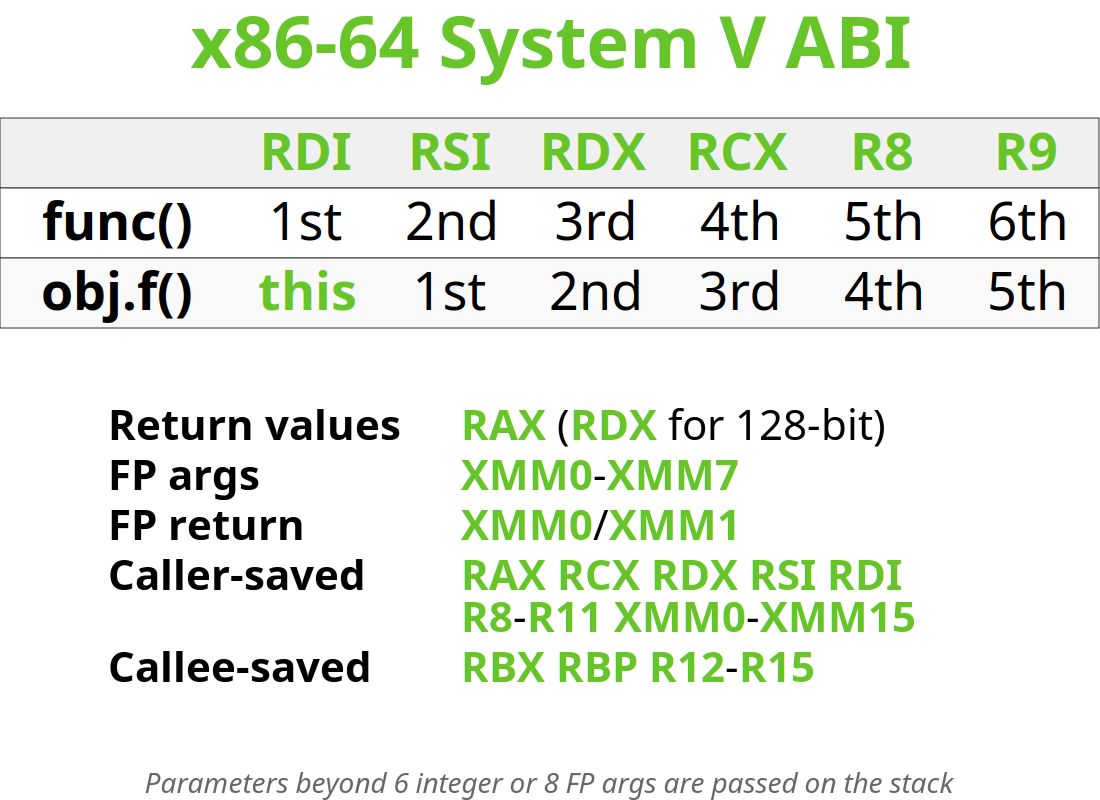
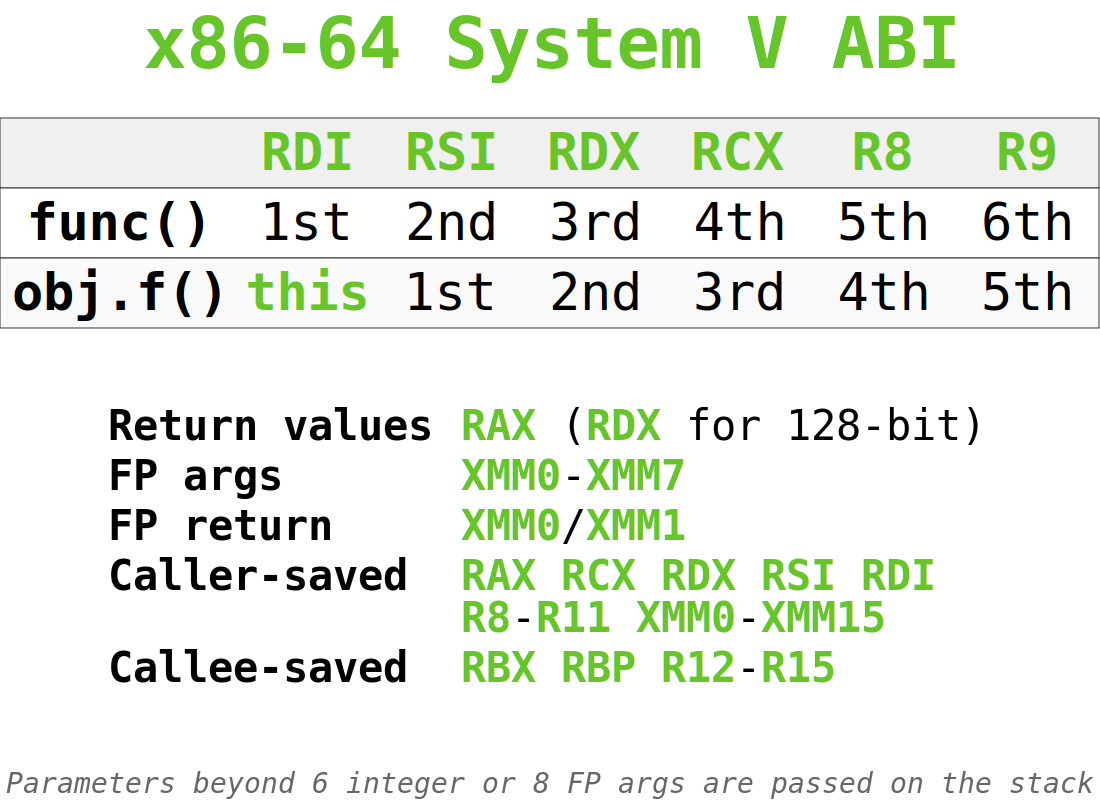
Fix font rendering to use proper monospace font in SVG output
- Add programmatic font family name detection to PILTextMeasurer
- Extract SVG-compatible font family name from PIL font objects using font.getname()[0]
- Add svg_font_family property to LayoutEngine with caching for performance
- Update all three mug generators to use proper font family name in SVG output
- Replace invalid 'font-family="DejaVuSansMono.ttf"' with correct 'font-family="DejaVu Sans Mono"'

Previously SVG was falling back to proportional fonts because font filenames are not
valid SVG font-family values. Now all mugs render with true monospace font matching
the PIL text measurements, ensuring consistent character spacing and professional appearance.

🤖 Generated with [Claude Code](https://claude.ai/code)

diff --git a/mugs/make_arm64_mug.py b/mugs/make_arm64_mug.py
@@ -8,7 +8,6 @@ from mug_common import (
     DEFAULT_DPI,
     DEFAULT_HEIGHT,
     DEFAULT_WIDTH,
-    FONT_NAME,
     FOOTER_OPACITY,
     HEADER_BG,
     ROW_LABEL_FUNCTION,
@@ -62,12 +61,15 @@ def create_abi_svg(
     engine = LayoutEngine(width, height)
     positions = engine.layout_mug(layout)
 
+    # Get proper SVG font family name
+    svg_font_family = engine.svg_font_family
+
     # Generate SVG
     svg = f"""<svg width="{width}" height="{height}" xmlns="http://www.w3.org/2000/svg">
   <rect width="{width}" height="{height}" fill="{BG_COLOR}"/>
 
   <!-- Title (horizontal at top) -->
-  <text x="{positions["title"]["x"]}" y="{positions["title"]["y"]}" font-family="{FONT_NAME}" font-size="{positions["title"]["size"]}"
+  <text x="{positions["title"]["x"]}" y="{positions["title"]["y"]}" font-family="{svg_font_family}" font-size="{positions["title"]["size"]}"
         font-weight="bold" fill="{CE_GREEN}" text-anchor="middle">{layout.title}</text>
 """
 
@@ -81,7 +83,7 @@ def create_abi_svg(
         col_width=positions["table"]["col_width"],
         row_height=positions["table"]["row_height"],
         label_width=positions["table"]["label_width"],
-        font_family=FONT_NAME,
+        font_family=svg_font_family,
         header_size=positions["table"]["header_size"],
         text_size=positions["table"]["text_size"],
         text_color=TEXT_COLOR,
@@ -98,7 +100,7 @@ def create_abi_svg(
         table_y=positions["info_items"]["y"],
         table_width=positions["info_items"]["width"],
         row_height=positions["info_items"]["row_height"],
-        font_family=FONT_NAME,
+        font_family=svg_font_family,
         text_size=positions["info_items"]["text_size"],
         text_color=TEXT_COLOR,
         ce_green=CE_GREEN,
@@ -111,7 +113,7 @@ def create_abi_svg(
     # Footer lines (already optimized by layout engine)
     for i, line in enumerate(positions["footer"]["lines"]):
         line_y = positions["footer"]["y"] + (i * positions["footer"]["line_height"])
-        svg += f"""  <text x="{positions["footer"]["x"]}" y="{line_y}" font-family="{FONT_NAME}" font-size="{positions["footer"]["size"]}"
+        svg += f"""  <text x="{positions["footer"]["x"]}" y="{line_y}" font-family="{svg_font_family}" font-size="{positions["footer"]["size"]}"
         fill="{TEXT_COLOR}" opacity="{FOOTER_OPACITY}" font-style="italic" text-anchor="middle">{line}</text>
 """
 

diff --git a/mugs/make_x86_64_msvc_mug.py b/mugs/make_x86_64_msvc_mug.py
@@ -8,7 +8,6 @@ from mug_common import (
     DEFAULT_DPI,
     DEFAULT_HEIGHT,
     DEFAULT_WIDTH,
-    FONT_NAME,
     FOOTER_OPACITY,
     HEADER_BG,
     ROW_LABEL_FUNCTION,
@@ -59,12 +58,15 @@ def create_abi_svg(
     engine = LayoutEngine(width, height)
     positions = engine.layout_mug(layout)
 
+    # Get proper SVG font family name
+    svg_font_family = engine.svg_font_family
+
     # Generate SVG
     svg = f"""<svg width="{width}" height="{height}" xmlns="http://www.w3.org/2000/svg">
   <rect width="{width}" height="{height}" fill="{BG_COLOR}"/>
 
   <!-- Title (horizontal at top) -->
-  <text x="{positions["title"]["x"]}" y="{positions["title"]["y"]}" font-family="{FONT_NAME}" font-size="{positions["title"]["size"]}"
+  <text x="{positions["title"]["x"]}" y="{positions["title"]["y"]}" font-family="{svg_font_family}" font-size="{positions["title"]["size"]}"
         font-weight="bold" fill="{CE_GREEN}" text-anchor="middle">{layout.title}</text>
 """
 
@@ -78,7 +80,7 @@ def create_abi_svg(
         col_width=positions["table"]["col_width"],
         row_height=positions["table"]["row_height"],
         label_width=positions["table"]["label_width"],
-        font_family=FONT_NAME,
+        font_family=svg_font_family,
         header_size=positions["table"]["header_size"],
         text_size=positions["table"]["text_size"],
         text_color=TEXT_COLOR,
@@ -95,7 +97,7 @@ def create_abi_svg(
         table_y=positions["info_items"]["y"],
         table_width=positions["info_items"]["width"],
         row_height=positions["info_items"]["row_height"],
-        font_family=FONT_NAME,
+        font_family=svg_font_family,
         text_size=positions["info_items"]["text_size"],
         text_color=TEXT_COLOR,
         ce_green=CE_GREEN,
@@ -108,7 +110,7 @@ def create_abi_svg(
     # Footer lines (already optimized by layout engine)
     for i, line in enumerate(positions["footer"]["lines"]):
         line_y = positions["footer"]["y"] + (i * positions["footer"]["line_height"])
-        svg += f"""  <text x="{positions["footer"]["x"]}" y="{line_y}" font-family="{FONT_NAME}" font-size="{positions["footer"]["size"]}"
+        svg += f"""  <text x="{positions["footer"]["x"]}" y="{line_y}" font-family="{svg_font_family}" font-size="{positions["footer"]["size"]}"
         fill="{TEXT_COLOR}" opacity="{FOOTER_OPACITY}" font-style="italic" text-anchor="middle">{line}</text>
 """
 

diff --git a/mugs/make_x86_64_systemv_mug.py b/mugs/make_x86_64_systemv_mug.py
@@ -8,7 +8,6 @@ from mug_common import (
     DEFAULT_DPI,
     DEFAULT_HEIGHT,
     DEFAULT_WIDTH,
-    FONT_NAME,
     FOOTER_OPACITY,
     HEADER_BG,
     ROW_LABEL_FUNCTION,
@@ -60,12 +59,15 @@ def create_abi_svg(
     engine = LayoutEngine(width, height)
     positions = engine.layout_mug(layout)
 
+    # Get proper SVG font family name
+    svg_font_family = engine.svg_font_family
+
     # Start SVG
     svg = f"""<svg width="{width}" height="{height}" xmlns="http://www.w3.org/2000/svg">
   <rect width="{width}" height="{height}" fill="{BG_COLOR}"/>
 
   <!-- Title (horizontal at top) -->
-  <text x="{positions["title"]["x"]}" y="{positions["title"]["y"]}" font-family="{FONT_NAME}" font-size="{positions["title"]["size"]}"
+  <text x="{positions["title"]["x"]}" y="{positions["title"]["y"]}" font-family="{svg_font_family}" font-size="{positions["title"]["size"]}"
         font-weight="bold" fill="{CE_GREEN}" text-anchor="middle">{layout.title}</text>
 """
 
@@ -86,7 +88,7 @@ def create_abi_svg(
         table_pos["col_width"],
         table_pos["row_height"],
         table_pos["label_width"],
-        FONT_NAME,
+        svg_font_family,
         table_pos["header_size"],
         table_pos["text_size"],
         TEXT_COLOR,
@@ -103,7 +105,7 @@ def create_abi_svg(
         info_table_pos["y"],
         info_table_pos["width"],
         info_table_pos["row_height"],
-        FONT_NAME,
+        svg_font_family,
         info_table_pos["text_size"],
         TEXT_COLOR,
         CE_GREEN,
@@ -120,7 +122,7 @@ def create_abi_svg(
     for i, line in enumerate(positions["footer"]["lines"]):
         line_y = positions["footer"]["y"] + (i * positions["footer"]["line_height"])
         svg += f"""
-  <text x="{positions["footer"]["x"]}" y="{line_y}" font-family="{FONT_NAME}" font-size="{positions["footer"]["size"]}"
+  <text x="{positions["footer"]["x"]}" y="{line_y}" font-family="{svg_font_family}" font-size="{positions["footer"]["size"]}"
         fill="{TEXT_COLOR}" opacity="{FOOTER_OPACITY}" font-style="italic" text-anchor="middle">{line}</text>"""
 
     # Close SVG

diff --git a/mugs/mug_common.py b/mugs/mug_common.py
@@ -181,6 +181,13 @@ class PILTextMeasurer:
 
         return TextMeasurement(width=float(width), height=float(height), ascent=float(ascent), descent=float(descent))
 
+    def get_svg_font_family(self, font_filename: str = FONT_NAME) -> str:
+        """Get the SVG-compatible font family name from a font file."""
+        # Load font and extract family name
+        font = ImageFont.truetype(font_filename, 12)  # Size doesn't matter for name extraction
+        family_name, _ = font.getname()
+        return family_name
+
 
 class LayoutEngine:
     def __init__(self, canvas_width: int, canvas_height: int, margin: int = DEFAULT_MARGIN):
@@ -188,6 +195,15 @@ class LayoutEngine:
         self.canvas_height = canvas_height
         self.margin = margin
         self.measurer = PILTextMeasurer()
+        # Cache the SVG font family name
+        self._svg_font_family: str | None = None
+
+    @property
+    def svg_font_family(self) -> str:
+        """Get the SVG-compatible font family name."""
+        if self._svg_font_family is None:
+            self._svg_font_family = self.measurer.get_svg_font_family()
+        return self._svg_font_family
 
     def _calculate_table_font_size(self, layout: MugLayout, content_width: int) -> Tuple[int, int, int]:
         """Calculate optimal table font size and dimensions."""
